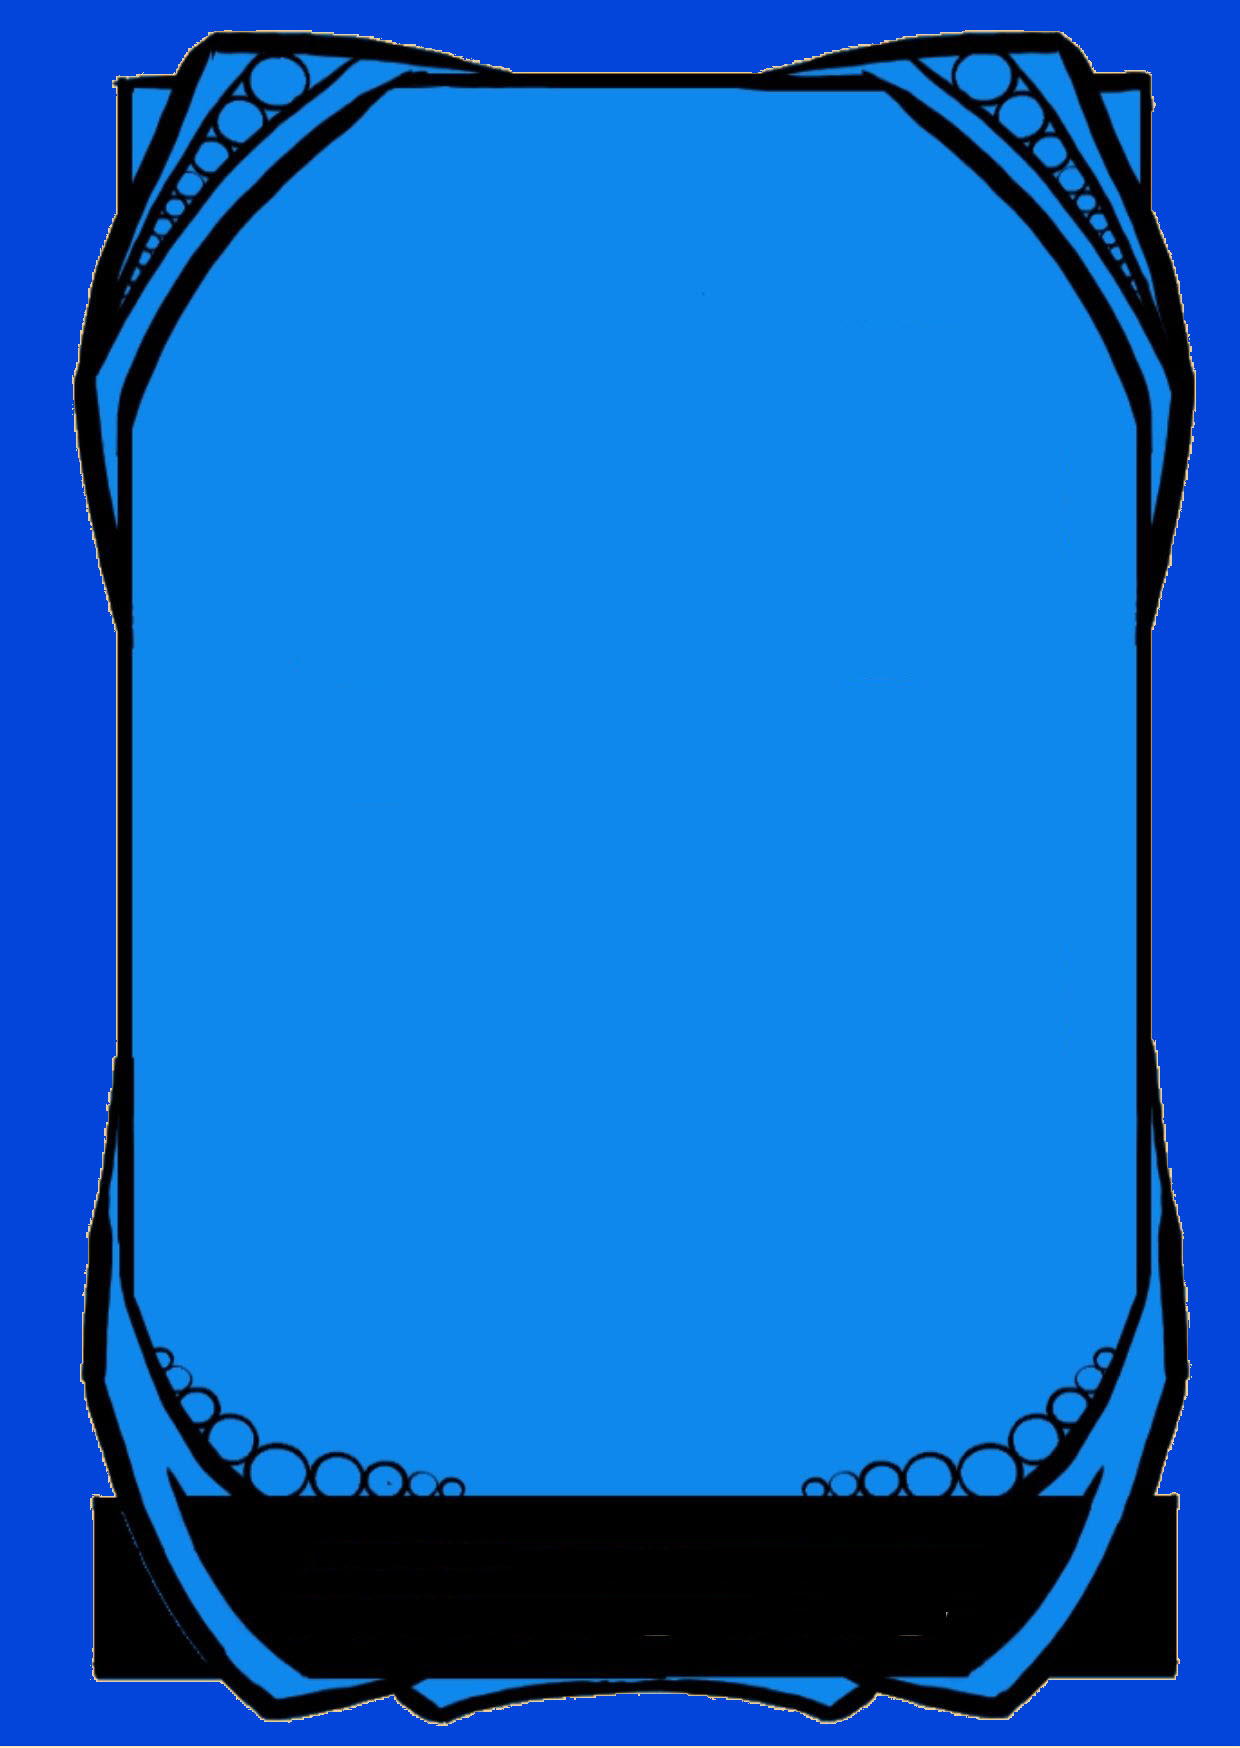
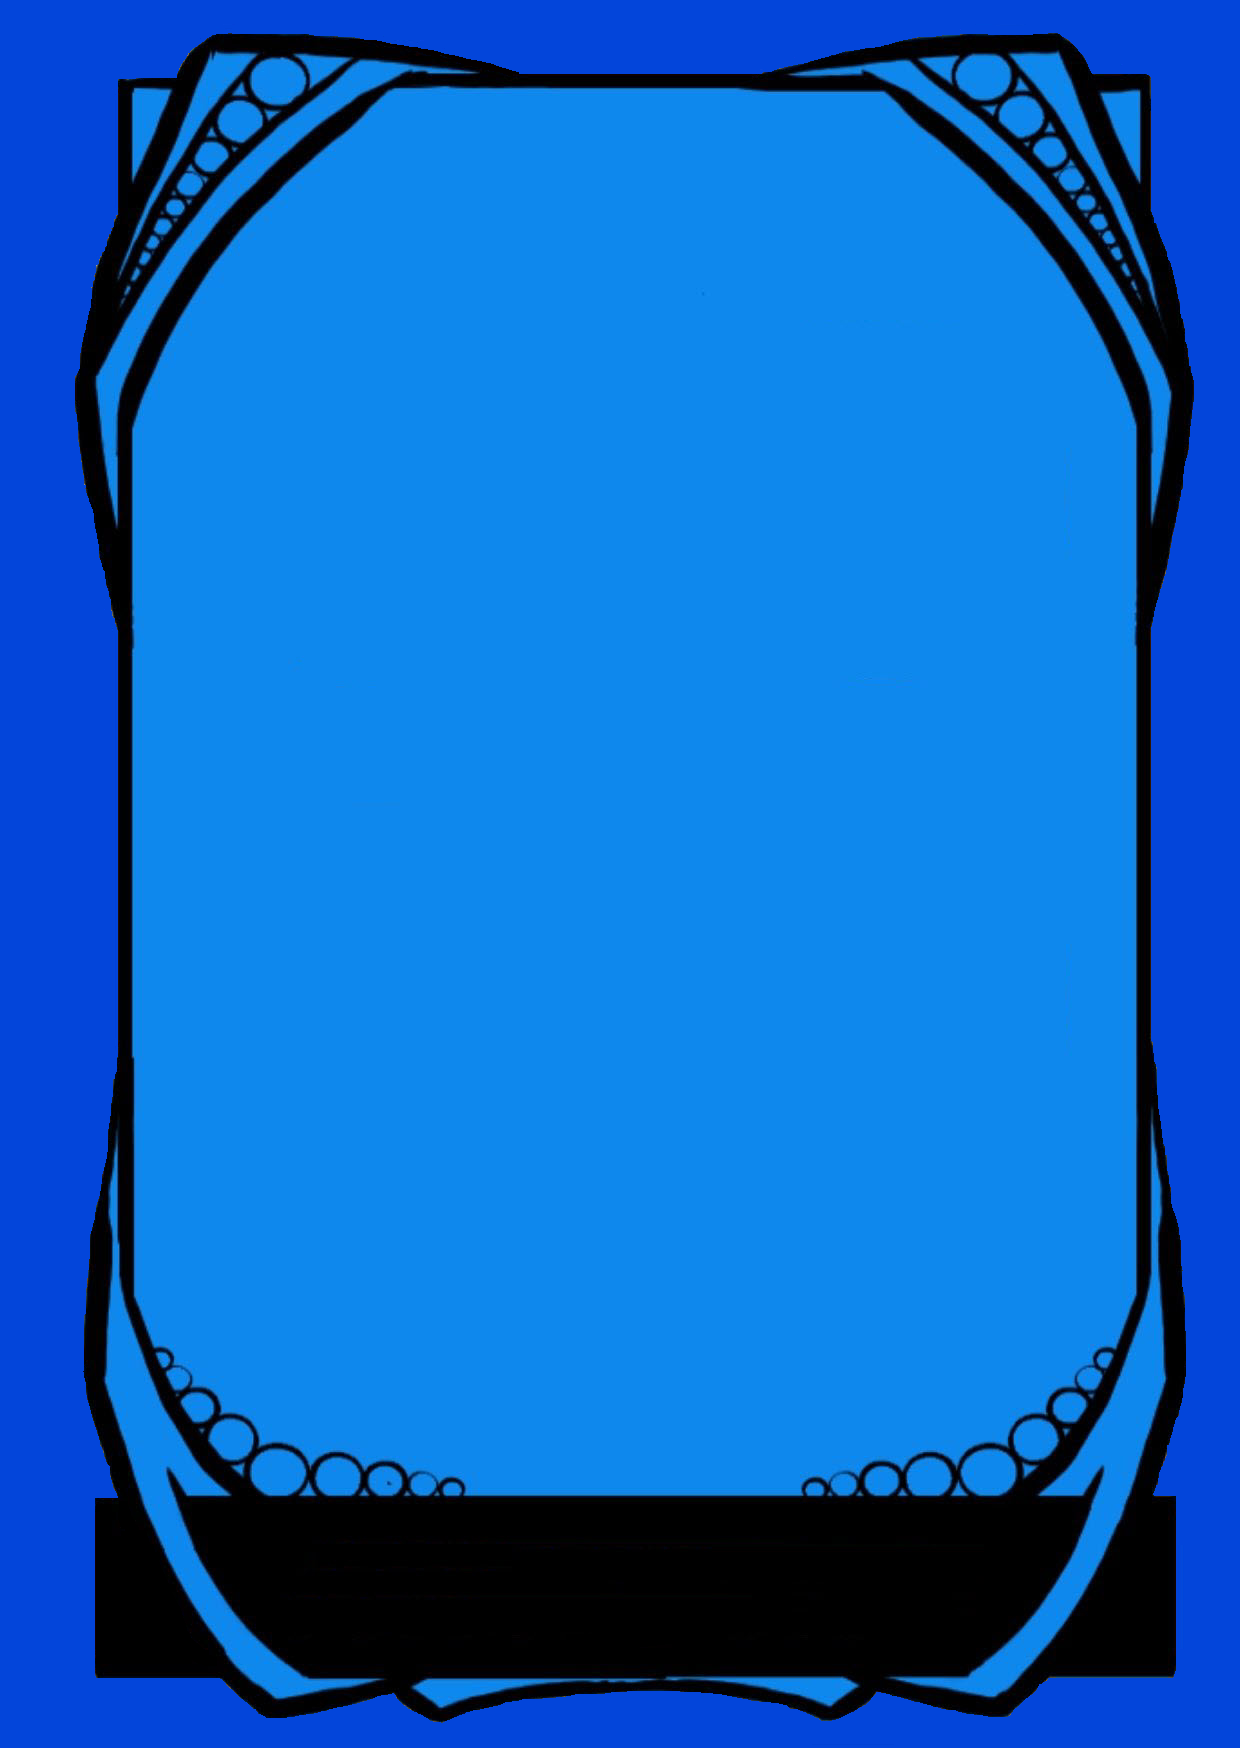
agregando tarjeta de Ayacucho arreglada y agregando efecto de vibracion al equivocarse la silaba

diff --git a/src/public/js/departamento.js b/src/public/js/departamento.js
@@ -276,6 +276,7 @@ document.addEventListener("DOMContentLoaded", () => {
   const casilleros = [...document.querySelectorAll("button.casillero")];
 
   let fichaSeleccionada = null;
+  let animandoError = false;
 
 
 
@@ -410,7 +411,11 @@ document.addEventListener("DOMContentLoaded", () => {
   // VERIFICAR VICTORIA
   // ==================================================
 
-  function verificarVictoria() {
+  async function verificarVictoria() {
+
+    if (animandoError) return;
+
+    const casillerosIncorrectos = [];
 
     casilleros.forEach((c, i) => {
 
@@ -422,6 +427,7 @@ document.addEventListener("DOMContentLoaded", () => {
         c.classList.add("correcto", "pop");
       } else {
         c.classList.add("incorrecto", "shake");
+        casillerosIncorrectos.push(c);
       }
     });
 
@@ -430,6 +436,22 @@ document.addEventListener("DOMContentLoaded", () => {
     const correcto = casilleros.every(
       (c, i) => c.dataset.valor === ordenCorrecto[i]
     );
+
+    if (completo && !correcto) {
+      animandoError = true;
+
+      deseleccionarFicha();
+
+      await new Promise((resolve) => setTimeout(resolve, 450));
+
+      casillerosIncorrectos.forEach((casillero) => {
+        limpiarCasillero(casillero);
+        casillero.classList.remove("shake");
+      });
+
+      animandoError = false;
+      return;
+    }
 
     if (!completo || !correcto || victoriaProcesada) return;
 
@@ -465,8 +487,9 @@ document.addEventListener("DOMContentLoaded", () => {
 
     ficha.dataset.usada = "0";
 
-    ficha.addEventListener("click", () => {
+      ficha.addEventListener("click", () => {
 
+      if (animandoError) return;
       if (isPaused) return;
       if (ficha.dataset.usada === "1") return;
 
@@ -487,6 +510,7 @@ document.addEventListener("DOMContentLoaded", () => {
 
     casillero.addEventListener("click", () => {
 
+      if (animandoError) return;
       if (isPaused) return;
 
       if (fichaSeleccionada) {

diff --git a/src/public/css/departamento.css b/src/public/css/departamento.css
@@ -304,7 +304,8 @@ body {
   font-weight: 800;
   font-size: 20px;
   cursor: pointer;
-  transition: 0.2s;
+  transition: background-color 0.2s, border-color 0.2s, box-shadow 0.2s,
+    transform 0.2s;
 }
 
 .juego-panel .casillero-espacio {
@@ -323,6 +324,45 @@ body {
   background: #ffb3b3 !important;
   border-color: #c40000 !important;
   box-shadow: 0 0 10px rgba(255, 0, 0, 0.3);
+}
+
+.juego-panel .casillero.shake {
+  animation: casillero-shake 0.45s ease;
+}
+
+.juego-panel .casillero.pop {
+  animation: casillero-pop 0.25s ease;
+}
+
+@keyframes casillero-shake {
+  0%,
+  100% {
+    transform: translateX(0);
+  }
+  20% {
+    transform: translateX(-6px);
+  }
+  40% {
+    transform: translateX(6px);
+  }
+  60% {
+    transform: translateX(-4px);
+  }
+  80% {
+    transform: translateX(4px);
+  }
+}
+
+@keyframes casillero-pop {
+  0% {
+    transform: scale(1);
+  }
+  50% {
+    transform: scale(1.06);
+  }
+  100% {
+    transform: scale(1);
+  }
 }
 
 /* ============================================================
